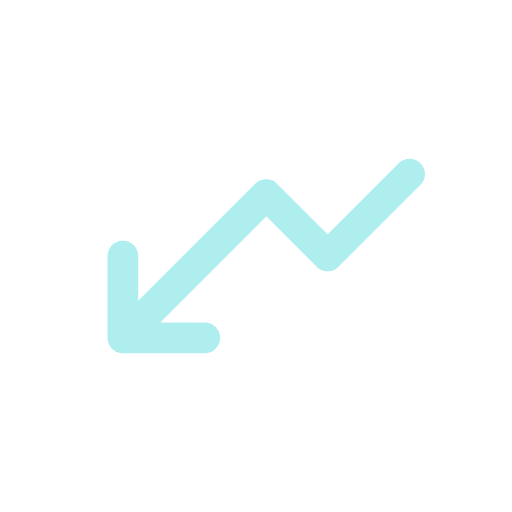
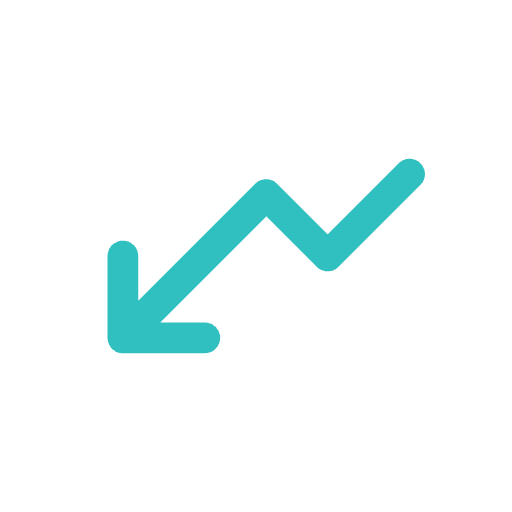
Change colors in images and menu button

Changed region(s): [[0.1875, 0.3125, 0.8438, 0.7188]]

diff --git a/src/components/Menu.tsx b/src/components/Menu.tsx
@@ -1,5 +1,4 @@
 "use client";
-import { NavLink } from "react-router";
 import { useState } from "react";
 import ItemMenu from "./ItemMenu";
 
@@ -18,7 +17,7 @@ export default function Menu() {
         </ul>
       </nav>
       <button
-        className="w-28 min-w-[112px] bg-purple-700 text-white px-4 py-2 rounded-b-lg hover:bg-purple-900 duration-300 text-center"
+        className="w-28 min-w-[112px] bg-cyan-700 text-white px-4 py-2 rounded-b-lg hover:bg-cyan-900 duration-300 text-center"
         onClick={() => setIsOpen(!isOpen)}
       >
         Menu

diff --git a/src/components/ItemMenu.tsx b/src/components/ItemMenu.tsx
@@ -7,7 +7,7 @@ export default function ItemMenu({
   url: string;
 }) {
   const itemClass =
-    "block w-28 min-w-[112px] px-4 py-2 hover:border-purple-700 border-x-1 border-transparent duration-300 hover:text-purple-700";
+    "block w-28 min-w-[112px] px-4 py-2 hover:border-cyan-700 border-x-1 border-transparent duration-300 hover:text-cyan-700";
   return (
     <li className="w-28 text-center">
       <NavLink to={url} className={itemClass}>
